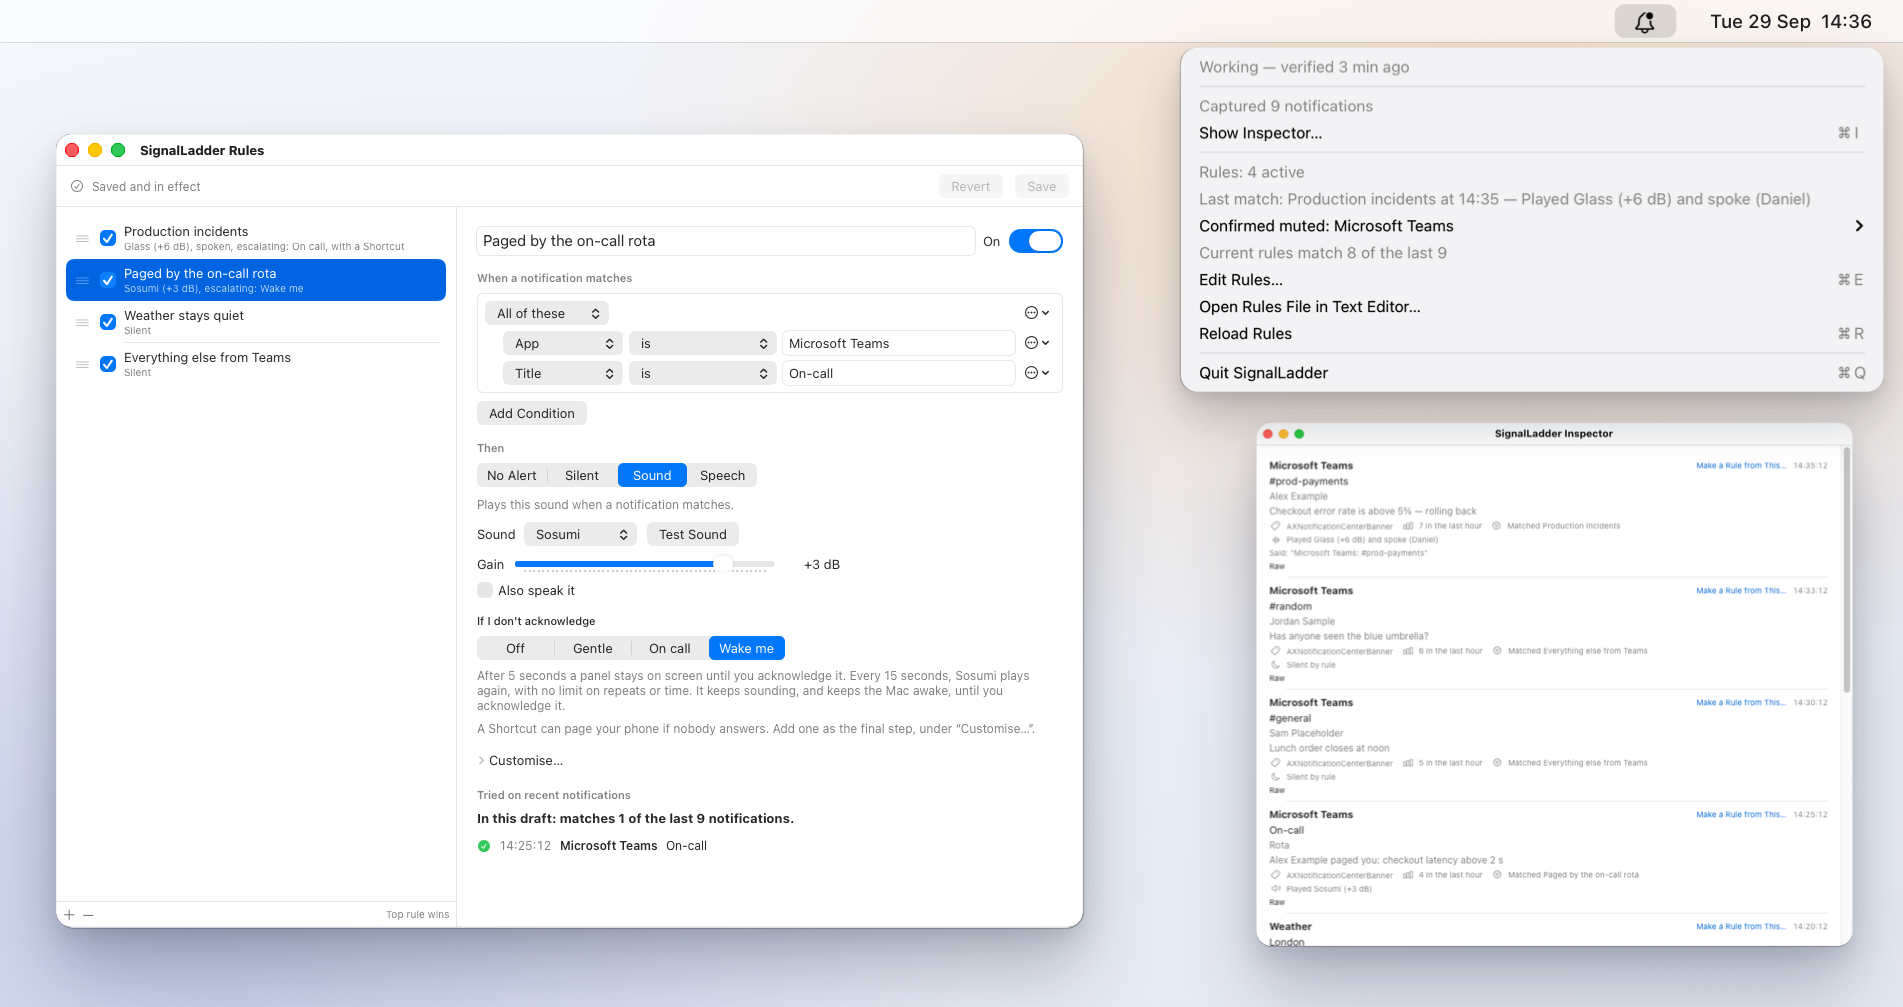
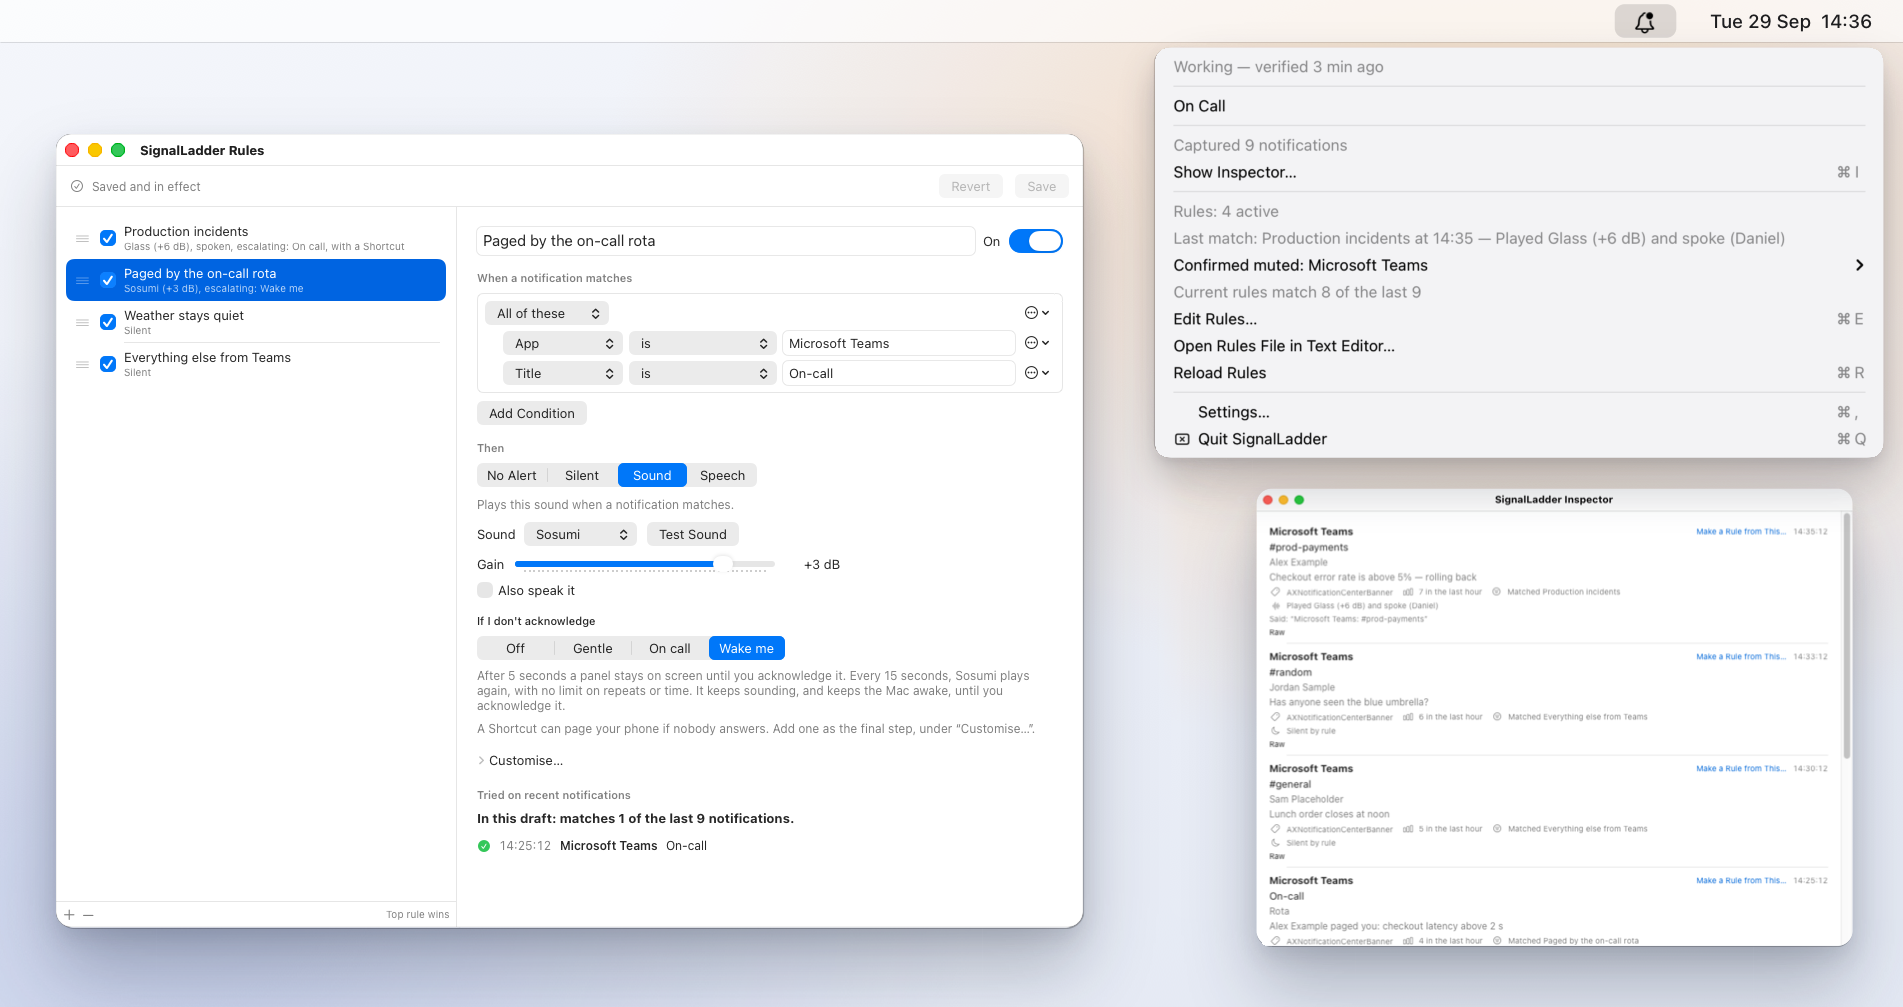
docs: the menu images show On Call and Settings, and the pages say what each one shows
The four images and the sentences beside them showed the 0.1.0 menu,
which has no On Call item and no Settings…, and the pages said so. All
four are retaken for the menu as main builds it, and the alt text and
captions now say what each picture shows.

What each image shows:

- screenshots/menu.png and menu-dark.png (1480x1132 px: a panel of
  1320x972 px, which is 660x486 pt at 2x, on the old images' shadow
  margin) show on-call mode on, switched on at 09:00 on Tuesday 29
  September, with self-tests running and the Mac kept awake. Top to
  bottom, 22 lines: the health line, a separator, On Call ticked, the
  since-line with its cadence, the awake line, the Focus and sleep
  advisories, Show On-Call Check…, a separator, the capture count, Show
  Inspector… (⌘I), a separator, the rules count, the last match,
  Confirmed muted: Microsoft Teams with its chevron, the match count,
  Edit Rules… (⌘E), Open Rules File in Text Editor…, Reload Rules (⌘R),
  a separator, Settings… (⌘,) and Quit SignalLadder (⌘Q). No other
  finding: the output is not muted, Alert volume is fine, the rules are
  in effect and the login item is enabled, so there is no Launch at
  login line either.
- hero.png and hero-dark.png (1903x1007 px, as before) show the same
  menu off call (651x366 pt): the five lines under On Call are gone, On
  Call is unticked between its separators and Settings… comes before
  Quit, 17 lines. The status icon is bell.badge, which is
[…]

diff --git a/README.md b/README.md
@@ -29,7 +29,7 @@
 
 <picture>
   <source media="(prefers-color-scheme: dark)" srcset="docs/assets/hero-dark.png">
-  <img src="docs/assets/hero.png" alt="The SignalLadder rule editor showing a rule for on-call pages that plays Sosumi and, if nobody acknowledges, climbs a Wake me ladder, the menu-bar menu as it was in 0.1.0, before the On Call item and Settings… were added, reporting that capture is working and the last match, and the Inspector listing recent notifications with what each one set off">
+  <img src="docs/assets/hero.png" alt="The SignalLadder rule editor showing a rule for on-call pages that plays Sosumi and, if nobody acknowledges, climbs a Wake me ladder, the menu-bar menu with on-call mode off, reporting that capture is working, with its On Call item, the rules in effect, the last match, Settings… and Quit, and the Inspector listing recent notifications with what each one set off">
 </picture>
 
 > [!NOTE]
@@ -147,13 +147,13 @@ flowchart LR
     <td width="42%" valign="top">
       <a href="docs/assets/screenshots/menu.png"><picture>
         <source media="(prefers-color-scheme: dark)" srcset="docs/assets/screenshots/menu-dark.png">
-        <img src="docs/assets/screenshots/menu.png" alt="The 0.1.0 menu-bar menu, before the On Call item and Settings… were added, showing health, capture count, rule status and the last match">
+        <img src="docs/assets/screenshots/menu.png" alt="The menu-bar menu with on-call mode on, showing health, the ticked On Call item with the lines the menu adds under it, the capture count, rule status, the last match, Settings… and Quit">
       </picture></a>
     </td>
   </tr>
   <tr>
     <td><strong>The Inspector.</strong> The last 50 notifications, what each field holds, which rule matched and what played.</td>
-    <td><strong>The menu.</strong> Health first, unless an alert is waiting, then the rules in effect and the last thing that sounded. The picture was taken on 2026-09-29, before the <strong>On Call</strong> item and <strong>Settings…</strong> existed, so its menu has neither.</td>
+    <td><strong>The menu.</strong> Health first, unless an alert is waiting, then <strong>On Call</strong>, then the rules in effect and the last thing that sounded. The picture shows on-call mode on, since 09:00, with the self-test running and the Mac kept awake, so under <strong>On Call</strong> are the lines the menu adds while you are on call. Off call, <strong>On Call</strong> is unticked with nothing under it. The picture is drawn from SignalLadder's own menu text with made-up values; it was not captured from a running copy.</td>
   </tr>
   <tr>
     <td colspan="2">

diff --git a/docs/getting-started.md b/docs/getting-started.md
@@ -446,9 +446,9 @@ SignalLadder alerts you only while it is running. It does not start itself unles
 
 2. **Glance at the health line.** Open the menu now and then. _Working — verified 3 min ago_ is what you want. The age matters: a self-test runs every 30 minutes, or every 5 while you are on call, so a number much above that means one did not run, and past about 31 minutes (6 on call) the line reads _Unverified — last verified 34 min ago_.
 
-   ![The SignalLadder 0.1.0 menu on a healthy app with rules loaded, before the On Call item and Settings… were added](assets/screenshots/menu.png)
+   ![The SignalLadder menu with on-call mode on: On Call ticked with the lines under it, then the capture count, the rules in effect, the last match, Settings… and Quit SignalLadder](assets/screenshots/menu.png)
 
-   The picture was taken on 2026-09-29, before the **On Call** item and **Settings…** existed, so its menu has neither.
+   The picture shows on-call mode on, since 09:00, with the self-test running and the Mac kept awake. So under **On Call** are the lines the menu adds while you are on call: since when and how often the self-test runs, that the Mac is being kept awake, two standing warnings (a Focus hides banners, and a Mac that sleeps captures nothing) and **Show On-Call Check…**. Off call, **On Call** is unticked and nothing is under it. The picture is drawn from SignalLadder's own menu text with made-up values; it was not captured from a running copy.
 
 3. **Notice the alarms.** When capture or the self-test fails, SignalLadder tells you three ways, so no single fault silences all of them: the bell changes to the slashed one and stays that way, the Mac beeps, and a banner appears once if SignalLadder's own banners can still be shown. Off call it beeps once. While you are on call it keeps beeping while the fault stands: six more times 5 minutes apart, then every 30 minutes. Off call, a rules-file problem, a sound that could not play, a Shortcut that could not run or a Shortcut name that was not found changes the bell and the menu and does not beep. While you are on call, a rules file or rule that is not in effect, a Shortcut name that was not found, or a login item that macOS does not report as enabled, gives one beep when it is new and opens the check window ([the On-Call Check window](#the-on-call-check-window) says when). A sound that could not play and a Shortcut that could not run still do not beep.
 

diff --git a/docs/troubleshooting.md b/docs/troubleshooting.md
@@ -23,9 +23,9 @@ The line _Captured 3 notifications_ counts what SignalLadder has read since it s
 
 The Inspector is held in memory. It is empty after a relaunch, and the 51st notification pushes out the first.
 
-![The SignalLadder 0.1.0 menu with a healthy status line and rules loaded, before the On Call item and Settings… were added](assets/screenshots/menu.png)
+![The SignalLadder menu with on-call mode on, a healthy status line and rules loaded](assets/screenshots/menu.png)
 
-That picture was taken on 2026-09-29, before the **On Call** item and **Settings…** existed, so its menu has neither.
+That picture shows on-call mode on, so under **On Call** are the lines the menu adds while you are on call. Off call, **On Call** is unticked and nothing is under it. The picture is drawn from SignalLadder's own menu text with made-up values; it was not captured from a running copy.
 
 ![The Inspector listing captured notifications, some matched and some not](assets/screenshots/inspector.png)
 
